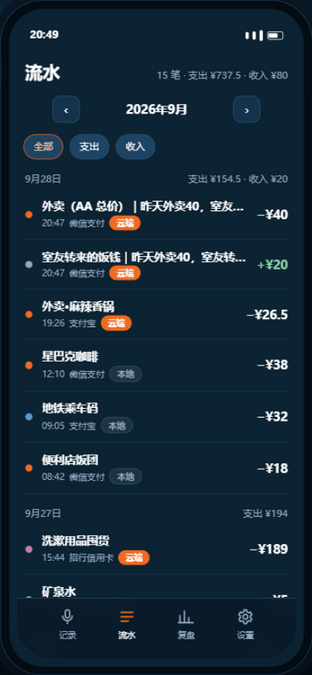
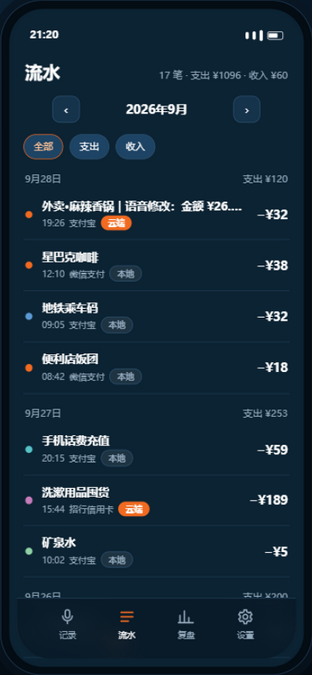
Prototype: voice-correction trail in notes, stacked category bars in week chart, richer category taxonomy
- 口误纠正: 确认后把 金额/备注 的修改详情(含时间)追加到该笔备注, 可在流水追溯
- 复盘: 周对比柱状图改为按分类占比堆叠, 新增分类图例, 当前周标签高亮
- 分类从 8 类扩展到 13 类(新增 学习/人情/通讯/旅行/宠物), 解析规则与示例数据同步补充

diff --git a/index.html b/index.html
@@ -188,14 +188,18 @@ body{
 .mbtn{width:34px;height:34px;border-radius:10px;background:var(--card);border:1px solid var(--line);color:var(--text);font-size:15px;cursor:pointer;font-family:inherit;transition:transform .08s}
 .mbtn:active{transform:scale(.92)}
 .mtitle{font-size:15px;font-weight:700;min-width:160px;text-align:center}
-/* 周对比柱状图 */
+/* 周对比柱状图（分类堆叠） */
 .chart{display:flex;align-items:stretch;gap:7px;height:120px}
 .bcol{flex:1;display:flex;flex-direction:column;align-items:center}
 .bval{font-size:9px;color:var(--muted);height:12px;line-height:12px}
 .bwrap{flex:1;width:100%;display:flex;align-items:flex-end;justify-content:center}
-.bbar{width:82%;background:#3E6C93;border-radius:5px 5px 0 0;min-height:2px}
-.bbar.cur{background:var(--accent)}
+.bbar{width:82%;background:#3E6C93;border-radius:5px 5px 0 0;min-height:2px;display:flex;flex-direction:column;overflow:hidden}
+.bbar .seg{width:100%;flex:none;min-height:2px}
 .blbl{font-size:9px;color:var(--muted);margin-top:5px}
+.blbl.cur{color:var(--accent);font-weight:700}
+.clegend{display:flex;flex-wrap:wrap;gap:5px 12px;margin-top:10px}
+.clegend .ci{display:flex;align-items:center;gap:5px;font-size:10px;color:var(--muted)}
+.clegend .ci i{width:8px;height:8px;border-radius:2px;flex:none}
 </style>
 </head>
 <body>
@@ -286,7 +290,8 @@ body{
           <button class="chip" data-c="max12">近12周最高</button>
         </div>
         <div class="chart" id="r-chart"></div>
-        <div class="small muted" style="margin-top:8px">近 8 周支出，橙色为当前所选周</div>
+        <div class="small muted" style="margin-top:8px">近 8 周支出，按分类堆叠，加粗周为当前所选周</div>
+        <div class="clegend" id="r-legend"></div>
       </div>
       <div class="card">
         <div style="font-size:14px;font-weight:700;margin-bottom:4px">分类构成</div>
@@ -375,8 +380,8 @@ body{
 <script>
 /* ==================== 数据与状态 ==================== */
 const $=s=>document.querySelector(s), $$=s=>[...document.querySelectorAll(s)];
-const CATS=["餐饮","交通","购物","日用","娱乐","居住","医疗","其他"];
-const CAT_DOT={"餐饮":"#F26B21","交通":"#5B9BD5","购物":"#C77DBB","日用":"#8FD3A6","娱乐":"#E8C468","居住":"#7A9CC6","医疗":"#D98A8A","其他":"#93A9BC"};
+const CATS=["餐饮","交通","购物","日用","娱乐","居住","医疗","学习","人情","通讯","旅行","宠物","其他"];
+const CAT_DOT={"餐饮":"#F26B21","交通":"#5B9BD5","购物":"#C77DBB","日用":"#8FD3A6","娱乐":"#E8C468","居住":"#7A9CC6","医疗":"#D98A8A","学习":"#9B8BD9","人情":"#E0899B","通讯":"#56C4C8","旅行":"#4FA890","宠物":"#B08968","其他":"#93A9BC"};
 const ACCOUNTS=["微信支付","支付宝","招行信用卡","现金"];
 const now=new Date();
 const d=(off=0,h=12,m=30)=>{const t=new Date(now);t.setDate(t.getDate()-off);t.setHours(h,m,0,0);return t.getTime();};
@@ -398,6 +403,10 @@ const store={
     {id:++uid,ts:d(4,13,55),amount:128, type:"expense",cat:"居住",acc:"招行信用卡",note:"水电燃气",src:"local"},
     {id:++uid,ts:d(5,16,20),amount:75,  type:"expense",cat:"购物",acc:"支付宝",  note:"袜子三双装",src:"local"},
     {id:++uid,ts:d(6,18,47),amount:33,  type:"expense",cat:"餐饮",acc:"微信支付",note:"奶茶+关东煮",src:"local"},
+    {id:++uid,ts:d(1,20,15),amount:59,  type:"expense",cat:"通讯",acc:"支付宝",  note:"手机话费充值",src:"local"},
+    {id:++uid,ts:d(2,14,6), amount:89,  type:"expense",cat:"学习",acc:"招行信用卡",note:"专业书两本",src:"cloud"},
+    {id:++uid,ts:d(3,19,30),amount:200, type:"expense",cat:"人情",acc:"微信支付",note:"同事结婚份子钱",src:"cloud"},
+    {id:++uid,ts:d(4,10,50),amount:45,  type:"expense",cat:"宠物",acc:"支付宝",  note:"猫粮一袋",src:"local"},
   ]
 };
 const fmt=n=>"¥"+(Math.round(n*100)/100).toFixed(2).replace(/\.00$/,"").replace(/(\.\d)0$/,"$1");
@@ -405,13 +414,18 @@ const esc=s=>String(s).replace(/[&<>"]/g,c=>({"&":"&amp;","<":"&lt;",">":"&gt;",
 
 /* ==================== 解析引擎（两层） ==================== */
 const RULES=[
-  {re:/星巴克|咖啡|奶茶/,cat:"餐饮",note:"咖啡 / 饮品"},
+  {re:/星巴克|咖啡|奶茶/,cat:"餐饮"},
   {re:/外卖|午饭|晚饭|早餐|吃|餐/,cat:"餐饮"},
-  {re:/打车|地铁|公交|滴滴/,cat:"交通"},
-  {re:/水|便利店|超市|纸巾/,cat:"日用"},
-  {re:/电影|游戏/,cat:"娱乐"},
+  {re:/机票|酒店|景点|旅行|民宿/,cat:"旅行"},
+  {re:/打车|地铁|公交|滴滴|火车|停车/,cat:"交通"},
+  {re:/书|课程|学费|培训|考试|文具/,cat:"学习"},
+  {re:/红包|礼物|请客|份子|人情/,cat:"人情"},
+  {re:/话费|流量|宽带|手机费/,cat:"通讯"},
+  {re:/猫|狗|宠物|猫粮|狗粮|疫苗/,cat:"宠物"},
+  {re:/水|便利店|超市|纸巾|洗|日用/,cat:"日用"},
+  {re:/电影|游戏|会员|演唱会/,cat:"娱乐"},
   {re:/房租|水电|燃气/,cat:"居住"},
-  {re:/药|医院/,cat:"医疗"},
+  {re:/药|医院|门诊/,cat:"医疗"},
 ];
 const numCN={"一":1,"二":2,"两":2,"三":3,"四":4,"五":5,"六":6,"七":7,"八":8,"九":9,"十":10};
 function pickAccount(t){if(/微信/.test(t))return "微信支付";if(/支付宝|花呗/.test(t))return "支付宝";if(/信用卡|刷卡/.test(t))return "招行信用卡";if(/现金/.test(t))return "现金";return "微信支付";}
@@ -551,7 +565,7 @@ function runParse(text){
     const t=r.target;
     sheet.innerHTML=`<div class="grab"></div>
       <div class="parse-head"><span class="ttl">口误纠正</span><span class="badge cloud">会话上下文</span></div>
-      <div class="min-note">已识别为对「刚才那笔」的修正：${esc(t.note)} → 金额改为 <b>${r.amount}</b>。</div>
+      <div class="min-note">已识别为对「刚才那笔」的修正：${esc(t.note)} → 金额改为 <b>${r.amount}</b>。<b>本次修改会追加到这笔的备注里，可随时追溯。</b></div>
       <div class="field"><label>金额</label><input class="f-amt" type="number" step="0.01" value="${r.amount}"></div>
       <div class="field"><label>备注</label><input class="f-note" value="${esc(t.note)}"></div>
       <div class="btn-row" style="margin-top:14px">
@@ -600,10 +614,20 @@ function confirmCard(src){
 }
 function confirmCorrection(id){
   const e=store.entries.find(x=>x.id===id); if(!e)return closeCard();
+  const oldAmt=e.amount, oldNote=e.note;
   const amt=parseFloat($("#card-sheet .f-amt").value);
-  if(!isNaN(amt))e.amount=amt;
-  const note=$("#card-sheet .f-note").value; if(note)e.note=note;
-  closeCard(); renderAll(); toast(`已修正「${esc(e.note)}」为 ${fmt(e.amount)}`);
+  const note=$("#card-sheet .f-note").value;
+  const changes=[];
+  if(!isNaN(amt)&&amt>0&&amt!==oldAmt){e.amount=amt;changes.push(`金额 ${fmt(oldAmt)}→${fmt(amt)}`);}
+  if(note&&note!==oldNote){e.note=note;changes.push(`备注「${oldNote}」→「${note}」`);}
+  if(changes.length){
+    const n=new Date();
+    const pad=v=>String(v).padStart(2,"0");
+    const stamp=`${pad(n.getMonth()+1)}-${pad(n.getDate())} ${pad(n.getHours())}:${pad(n.getMinutes())}`;
+    e.note=e.note+`｜语音修改：${changes.join("，")}（${stamp}）`;
+  }
+  closeCard(); renderAll();
+  toast(changes.length?`已修正，修改详情已写入备注`:`没有检测到改动`);
 }
 
 /* ==================== 渲染 ==================== */
@@ -701,21 +725,35 @@ function renderReport(){
   $("#r-bar").style.width=pct+"%";
   $("#r-budget-txt").textContent=`本月预算 ${fmt(store.budget)} · 已用 ${fmt(monthSpend)}`;
   $("#r-left").textContent=`剩余 ${fmt(Math.max(0,store.budget-monthSpend))}`;
-  /* 近 8 周柱状图 */
+  /* 近 8 周分类堆叠柱状图 */
   const bars=[];
-  for(let i=7;i>=0;i--){const [s,e]=weekBounds(weekOffset+i);bars.push({sum:weekSum(s,e),cur:i===0,label:"W"+isoWeek(s)});}
+  for(let i=7;i>=0;i--){
+    const [s,e]=weekBounds(weekOffset+i);
+    const weekExp=store.entries.filter(x=>x.ts>=s&&x.ts<e&&x.type==="expense");
+    const sum=weekExp.reduce((a,x)=>a+x.amount,0);
+    const cc={}; weekExp.forEach(x=>{cc[x.cat]=(cc[x.cat]||0)+x.amount;});
+    bars.push({sum,cats:cc,cur:i===0,label:"W"+isoWeek(s)});
+  }
   const max=Math.max(...bars.map(b=>b.sum),1);
-  $("#r-chart").innerHTML=bars.map(b=>`
+  $("#r-chart").innerHTML=bars.map(b=>{
+    const segs=Object.entries(b.cats).sort((a,c)=>c[1]-a[1]).map(([c,v])=>
+      `<div class="seg" style="height:${Math.max(2,Math.round(v/b.sum*100))}%;background:${CAT_DOT[c]||CAT_DOT["其他"]}"></div>`).join("");
+    return `
     <div class="bcol">
       <div class="bval">${b.sum?fmtShort(b.sum):""}</div>
-      <div class="bwrap"><div class="bbar ${b.cur?"cur":""}" style="height:${Math.max(2,Math.round(b.sum/max*100))}%"></div></div>
-      <div class="blbl">${b.label}</div>
-    </div>`).join("");
+      <div class="bwrap"><div class="bbar" style="height:${Math.max(2,Math.round(b.sum/max*100))}%">${segs}</div></div>
+      <div class="blbl ${b.cur?"cur":""}">${b.label}</div>
+    </div>`;
+  }).join("");
+  const legendCats=[...new Set(bars.flatMap(b=>Object.keys(b.cats)))];
+  $("#r-legend").innerHTML=legendCats.length
+    ? legendCats.map(c=>`<span class="ci"><i style="background:${CAT_DOT[c]||CAT_DOT["其他"]}"></i>${c}</span>`).join("")
+    : `<span class="ci">近 8 周暂无数据</span>`;
   /* 分类构成与 AI 建议（按所选周） */
   const week=store.entries.filter(e=>e.ts>=ws&&e.ts<we&&e.type==="expense");
   const cats={};
   week.forEach(e=>{cats[e.cat]=(cats[e.cat]||0)+e.amount;});
-  const top=Object.entries(cats).sort((a,b)=>b[1]-a[1]).slice(0,4);
+  const top=Object.entries(cats).sort((a,b)=>b[1]-a[1]).slice(0,5);
   const cmax=top.length?top[0][1]:1;
   $("#r-cats").innerHTML=top.length?top.map(([c,v])=>`
     <div class="catrow"><span class="cn">${c}</span><span class="cbar"><i style="width:${Math.round(v/cmax*100)}%;background:${CAT_DOT[c]}"></i></span><span class="cv">${fmt(v)}</span></div>`).join(""):'<div class="small muted">该周暂无支出</div>';

diff --git a/docs/prototype/README.md b/docs/prototype/README.md
@@ -12,10 +12,12 @@
 |---|---|
 | 记录（首页） | 日期与今日统计、话术 chip、按住说话的 FAB、最近记录（含解析路径徽标） |
 | 录音浮层 | 声波动画、逐字出现的转写文本、“松手入账 · 上滑取消”提示 |
-| 解析卡片 | 本地规则 / 云端解析徽标与延迟、可编辑的金额·分类·账户·备注（备注默认保留完整原话）、一句话拆两笔、口误纠正 |
+| 解析卡片 | 本地规则 / 云端解析徽标与延迟、可编辑的金额·分类·账户·备注（备注默认保留完整原话）、一句话拆两笔、口误纠正（修改详情写入备注） |
 | 流水 | 年月切换（‹ ›）、全部/支出/收入筛选、按日分组与每日收支小计、解析路径徽标 |
-| 复盘 | 周次切换（‹ ›）、三种对比基准（上周/近4周均值/近12周最高）、近 8 周支出柱状对比、月预算进度、分类构成、AI 建议 |
+| 复盘 | 周次切换（‹ ›）、三种对比基准（上周/近4周均值/近12周最高）、近 8 周按分类堆叠的支出柱状图与图例、月预算进度、分类构成、AI 建议 |
 | 设置 | 云端解析开关、本机加密开关、导出 CSV / JSON（真实下载）、导入账单 CSV |
+
+支出分类共 13 类：餐饮、交通、购物、日用、娱乐、居住、医疗、学习、人情、通讯、旅行、宠物、其他。流水圆点、分类构成条、周对比堆叠柱使用同一套配色。
 
 ## 演示路径（建议按这个顺序点）
 
@@ -24,7 +26,7 @@
 3. 入账后去「流水」：用顶部 ‹ › 切换年月，用「支出/收入」筛选，看数据联动；
 4. 去「复盘」：用 ‹ › 翻到其他周，切换「上周/近4周均值/近12周最高」三种对比基准，看柱状图、分类构成和 AI 建议如何随之变化；
 5. 去「设置」关掉云端解析，再回首页点「昨天外卖40，室友转我20」→ 得到“没听懂这句 · 可手动补全”的降级卡片；此时点「打车25」仍能走本地规则入账；
-6. 点「把刚才那笔改成32」→ 演示口误纠正；
+6. 点「把刚才那笔改成32」→ 演示口误纠正：确认后这笔的备注会追加「｜语音修改：金额 ¥26.5→¥32（日期 时间）」，在流水里可追溯；
 7. 「设置」里点导出 CSV / JSON，得到真实可用的文件；「上个月花呗耳机分12期」会带 v0.2 分期标记。
 
 ## 与产品文档的对应
@@ -42,4 +44,4 @@
 ## 文件
 
 - `../../index.html` — 原型本体（单文件）
-- `screenshots/` — 五个关键界面截图（首页、云端解析卡片、流水、复盘、入账后的首页）
+- `screenshots/` — 六个关键界面截图：首页、云端解析卡片、流水、复盘、入账后的首页、口误纠正卡片
